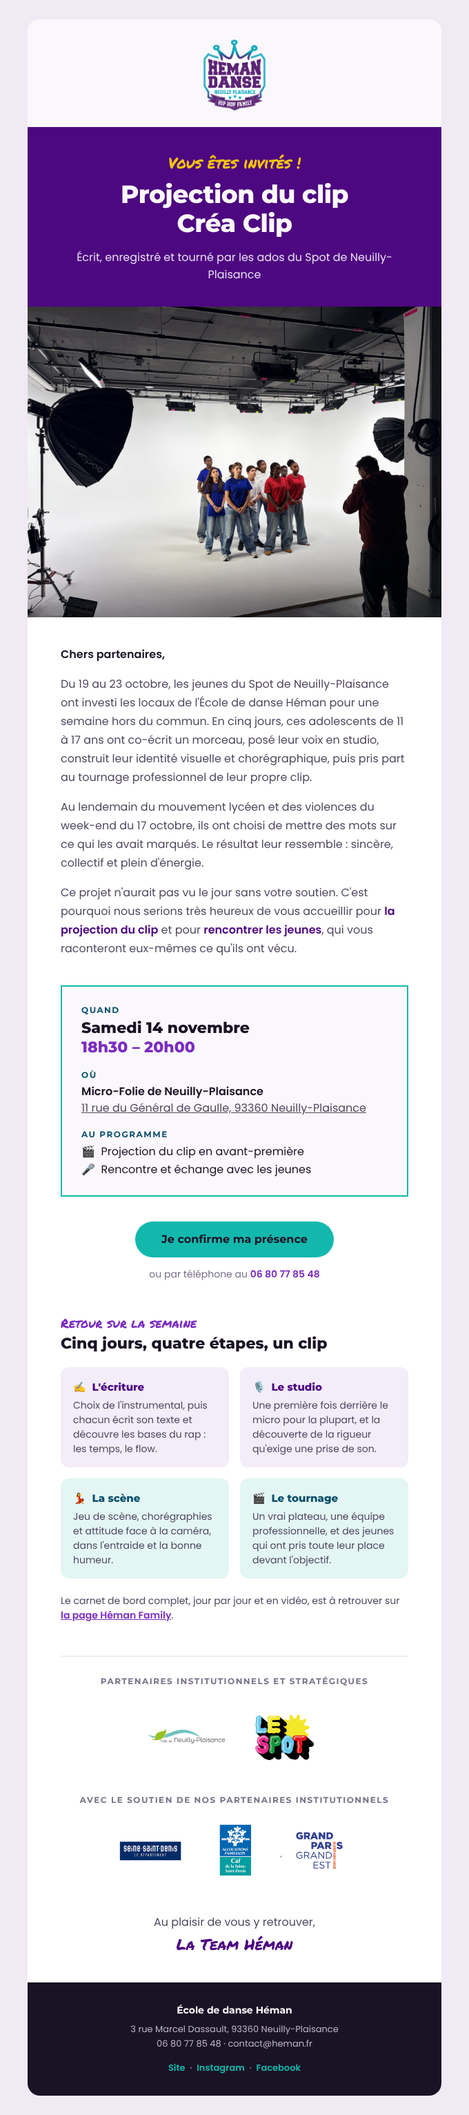
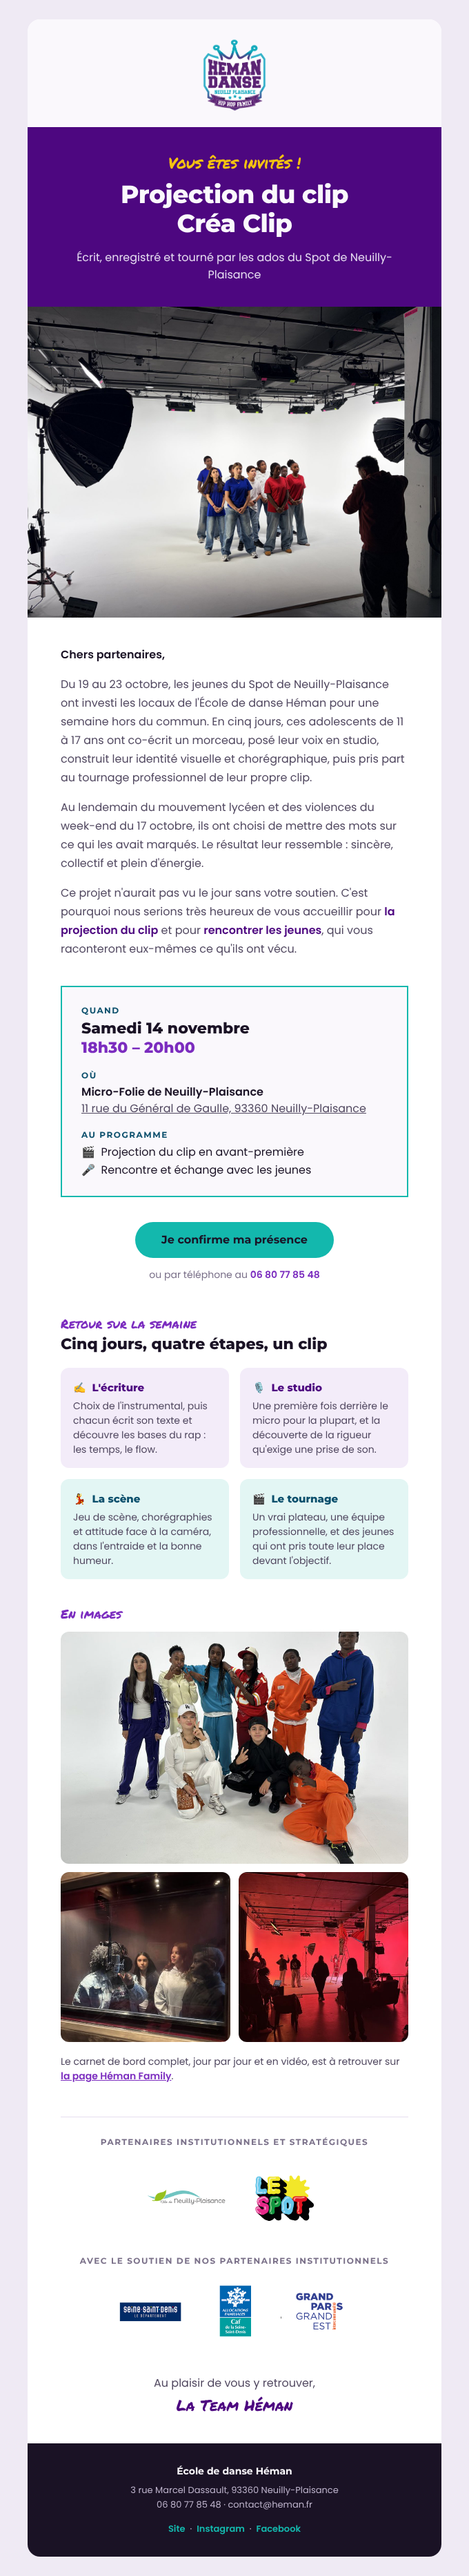
Newsletter Créa Clip : ajoute une galerie de trois photos du stage
Claude-Session: https://claude.ai/code/session_015ti73r8A3VSUthThMQ7BVY

diff --git a/newsletter/creaclip-projection.html b/newsletter/creaclip-projection.html
@@ -143,7 +143,29 @@
                 </td>
               </tr>
             </table>
-            <p style="margin: 6px 0 0; font-family: Poppins, Arial, sans-serif; font-size: 14px; line-height: 21px; color: #514860;">Le carnet de bord complet, jour par jour et en vidéo, est à retrouver sur <a href="https://heman.website/heman-family.html" target="_blank" style="color: #7b2cbf; font-weight: 600;">la page Héman Family</a>.</p>
+          </td>
+        </tr>
+
+        <!-- Galerie photos -->
+        <tr>
+          <td class="marge" style="padding: 18px 48px 4px;">
+            <p style="margin: 0 0 14px; font-family: 'Permanent Marker', 'Comic Sans MS', cursive; font-size: 18px; line-height: 24px; color: #7b2cbf;">En images</p>
+            <table role="presentation" width="100%" cellpadding="0" cellspacing="0" border="0">
+              <tr>
+                <td colspan="2" style="padding: 0 0 12px;">
+                  <img src="https://heman.website/assets/creaclip-galerie-groupe.jpg" width="504" alt="Les jeunes du stage Créa Clip posent ensemble en tenues colorées sur fond blanc, le jour du tournage" style="width: 100%; max-width: 504px; height: auto; border-radius: 12px;">
+                </td>
+              </tr>
+              <tr>
+                <td width="50%" valign="top" style="padding: 0 6px 0 0;">
+                  <img src="https://heman.website/assets/creaclip-galerie-studio.jpg" width="246" alt="Un jeune enregistre son texte au micro, derrière la vitre du studio, entouré de trois camarades" style="width: 100%; max-width: 246px; height: auto; border-radius: 12px;">
+                </td>
+                <td width="50%" valign="top" style="padding: 0 0 0 6px;">
+                  <img src="https://heman.website/assets/creaclip-galerie-plateau.jpg" width="246" alt="Le plateau de tournage baigné de lumière rouge, une jeune danseuse en pleine prise" style="width: 100%; max-width: 246px; height: auto; border-radius: 12px;">
+                </td>
+              </tr>
+            </table>
+            <p style="margin: 18px 0 0; font-family: Poppins, Arial, sans-serif; font-size: 14px; line-height: 21px; color: #514860;">Le carnet de bord complet, jour par jour et en vidéo, est à retrouver sur <a href="https://heman.website/heman-family.html" target="_blank" style="color: #7b2cbf; font-weight: 600;">la page Héman Family</a>.</p>
           </td>
         </tr>
 
